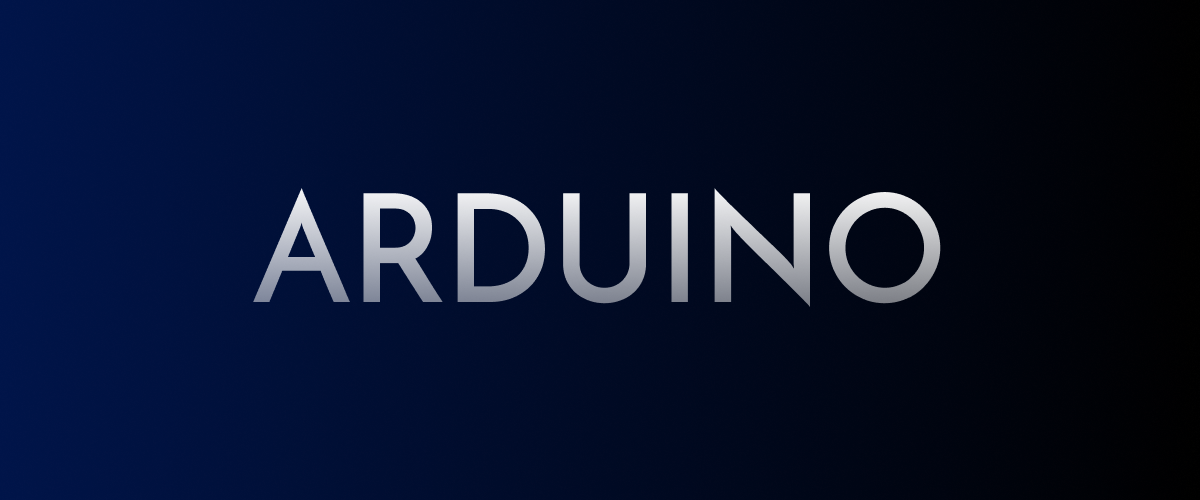
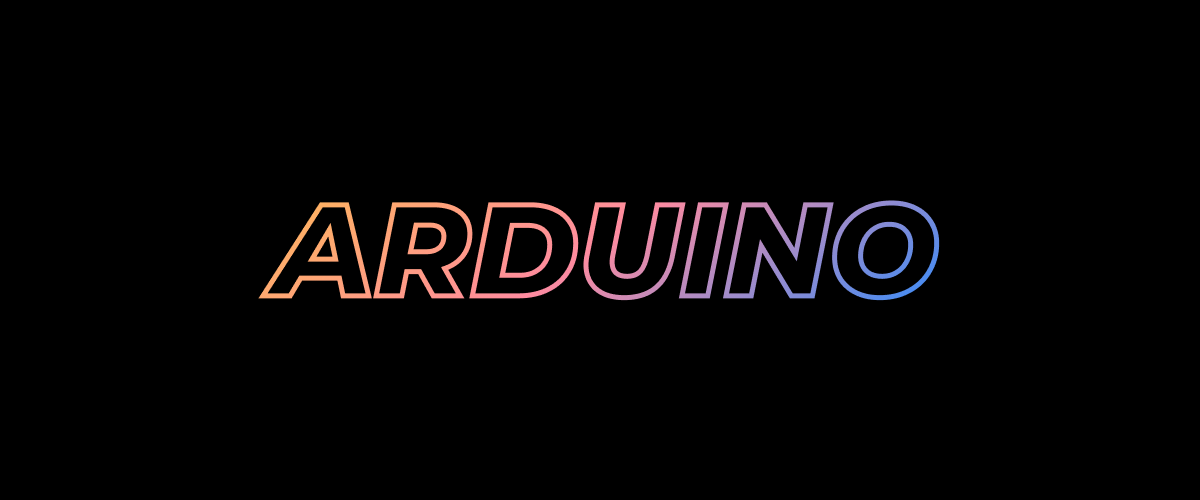
New UI

diff --git a/style.css b/style.css
@@ -1,0 +1,1 @@
+/*! tailwindcss v2.2.17 | MIT License | https://tailwindcss.com*//*! modern-normalize v1.1.0 | MIT License | https://github.com/sindresorhus/modern-normalize */html{-webkit-text-size-adjust:100%;line-height:1.15;-moz-tab-size:4;-o-tab-size:4;tab-size:4}body{font-family:system-ui,-apple-system,Segoe UI,Roboto,Helvetica,Arial,sans-serif,Apple Color Emoji,Segoe UI Emoji;margin:0}hr{color:inherit;height:0}abbr[title]{-webkit-text-decoration:underline dotted;text-decoration:underline dotted}b,strong{font-weight:bolder}code,kbd,pre,samp{font-family:ui-monospace,SFMono-Regular,Consolas,Liberation Mono,Menlo,monospace;font-size:1em}small{font-size:80%}sub,sup{font-size:75%;line-height:0;position:relative;vertical-align:baseline}sub{bottom:-.25em}sup{top:-.5em}table{border-color:inherit;text-indent:0}button,input,optgroup,select,textarea{font-family:inherit;font-size:100%;line-height:1.15;margin:0}button,select{text-transform:none}[type=button],[type=reset],[type=submit],button{-webkit-appearance:button}::-moz-focus-inner{border-style:none;padding:0}:-moz-focusring{outline:1px dotted ButtonText}:-moz-ui-invalid{box-shadow:none}legend{padding:0}progress{vertical-align:baseline}::-webkit-inner-spin-button,::-webkit-outer-spin-button{height:auto}[type=search]{-webkit-appearance:textfield;outline-offset:-2px}::-webkit-search-decoration{-webkit-appearance:none}::-webkit-file-upload-button{-webkit-appearance:button;font:inherit}summary{display:list-item}blockquote,dd,dl,figure,h1,h2,h3,h4,h5,h6,hr,p,pre{margin:0}button{background-color:transparent;background-image:none}fieldset,ol,ul{margin:0;padding:0}ol,ul{list-style:none}html{font-family:ui-sans-serif,system-ui,-apple-system,BlinkMacSystemFont,Segoe UI,Roboto,Helvetica Neue,Arial,Noto Sans,sans-serif,Apple Color Emoji,Segoe UI Emoji,Segoe UI Symbol,Noto Color Emoji;line-height:1.5}body{font-family:inherit;line-height:inherit}*,:after,:before{border:0 solid;box-sizing:border-box}hr{border-top-width:1px}img{border-style:solid}textarea{resize:vertical}input::-moz-placeholder,textarea::-moz-placeholder{color:#9ca3af;opacity:1}input:-ms-input-placeholder,textarea:-ms-input-placeholder{color:#9ca3af;opacity:1}input::placeholder,textarea::placeholder{color:#9ca3af;opacity:1}[role=button],button{cursor:pointer}:-moz-focusring{outline:auto}table{border-collapse:collapse}h1,h2,h3,h4,h5,h6{font-size:inherit;font-weight:inherit}a{color:inherit;text-decoration:inherit}button,input,optgroup,select,textarea{color:inherit;line-height:inherit;padding:0}code,kbd,pre,samp{font-family:ui-monospace,SFMono-Regular,Menlo,Monaco,Consolas,Liberation Mono,Courier New,monospace}audio,canvas,embed,iframe,img,object,svg,video{display:block;vertical-align:middle}img,video{height:auto;max-width:100%}[hidden]{display:none}*,:after,:before{--tw-translate-x:0;--tw-translate-y:0;--tw-rotate:0;--tw-skew-x:0;--tw-skew-y:0;--tw-scale-x:1;--tw-scale-y:1;--tw-transform:translateX(var(--tw-translate-x)) translateY(var(--tw-translate-y)) rotate(var(--tw-rotate)) skewX(var(--tw-skew-x)) skewY(var(--tw-skew-y)) scaleX(var(--tw-scale-x)) scaleY(var(--tw-scale-y));--tw-border-opacity:1;--tw-ring-inset:var(--tw-empty,/*!*/ /*!*/);--tw-ring-offset-width:0px;--tw-ring-offset-color:#fff;--tw-ring-color:rgba(59,130,246,0.5);--tw-ring-offset-shadow:0 0 #0000;--tw-ring-shadow:0 0 #0000;--tw-shadow:0 0 #0000;border-color:rgba(229,231,235,var(--tw-border-opacity))}.container{width:100%}@media (min-width:640px){.container{max-width:640px}}@media (min-width:768px){.container{max-width:768px}}@media (min-width:1024px){.container{max-width:1024px}}@media (min-width:1280px){.container{max-width:1280px}}@media (min-width:1536px){.container{max-width:1536px}}.order-first{order:-9999}.-m-4{margin:-1rem}.mx-auto{margin-left:auto;margin-right:auto}.-mx-4{margin-left:-1rem;margin-right:-1rem}.mr-5{margin-right:1.25rem}.mb-4{margin-bottom:1rem}.ml-3{margin-left:.75rem}.ml-5{margin-left:1.25rem}.mt-4{margin-top:1rem}.ml-1{margin-left:.25rem}.mb-10{margin-bottom:2.5rem}.mb-8{margin-bottom:2rem}.ml-4{margin-left:1rem}.mb-20{margin-bottom:5rem}.mb-6{margin-bottom:1.5rem}.mb-7{margin-bottom:1.75rem}.-mb-10{margin-bottom:-2.5rem}.mt-6{margin-top:1.5rem}.mb-3{margin-bottom:.75rem}.flex{display:flex}.inline-flex{display:inline-flex}.h-4{height:1rem}.h-1{height:.25rem}.h-40{height:10rem}.h-10{height:2.5rem}.h-5{height:1.25rem}.h-64{height:16rem}.h-full{height:100%}.w-4{width:1rem}.w-5\/6{width:83.333333%}.w-full{width:100%}.w-20{width:5rem}.w-10{width:2.5rem}.w-5{width:1.25rem}.transform{transform:var(--tw-transform)}.select-none{-webkit-user-select:none;-moz-user-select:none;-ms-user-select:none;user-select:none}.flex-col{flex-direction:column}.flex-wrap{flex-wrap:wrap}.items-center{align-items:center}.justify-center{justify-content:center}.overflow-hidden{overflow:hidden}.rounded-md{border-radius:.375rem}.rounded-3xl{border-radius:1.5rem}.rounded-lg{border-radius:.5rem}.rounded{border-radius:.25rem}.rounded-2xl{border-radius:1rem}.rounded-xl{border-radius:.75rem}.rounded-b-3xl{border-bottom-left-radius:1.5rem;border-bottom-right-radius:1.5rem}.rounded-t-3xl{border-top-left-radius:1.5rem;border-top-right-radius:1.5rem}.border-0{border-width:0}.bg-black{--tw-bg-opacity:1;background-color:rgba(0,0,0,var(--tw-bg-opacity))}.bg-white{--tw-bg-opacity:1;background-color:rgba(255,255,255,var(--tw-bg-opacity))}.bg-red-500{--tw-bg-opacity:1;background-color:rgba(239,68,68,var(--tw-bg-opacity))}.bg-opacity-40{--tw-bg-opacity:0.4}.object-cover{-o-object-fit:cover;object-fit:cover}.object-center{-o-object-position:center;object-position:center}.p-5{padding:1.25rem}.p-4{padding:1rem}.p-6{padding:1.5rem}.p-2{padding:.5rem}.py-1{padding-bottom:.25rem;padding-top:.25rem}.px-3{padding-left:.75rem;padding-right:.75rem}.px-5{padding-left:1.25rem;padding-right:1.25rem}.py-24{padding-bottom:6rem;padding-top:6rem}.py-2{padding-bottom:.5rem;padding-top:.5rem}.px-6{padding-left:1.5rem;padding-right:1.5rem}.py-8{padding-bottom:2rem;padding-top:2rem}.px-4{padding-left:1rem;padding-right:1rem}.text-center{text-align:center}.font-mono{font-family:ui-monospace,SFMono-Regular,Menlo,Monaco,Consolas,Liberation Mono,Courier New,monospace}.text-base{font-size:1rem;line-height:1.5rem}.text-3xl{font-size:1.875rem;line-height:2.25rem}.text-lg{font-size:1.125rem;line-height:1.75rem}.text-2xl{font-size:1.5rem;line-height:2rem}.text-xs{font-size:.75rem;line-height:1rem}.text-xl{font-size:1.25rem;line-height:1.75rem}.text-sm{font-size:.875rem;line-height:1.25rem}.font-medium{font-weight:500}.italic{font-style:italic}.leading-relaxed{line-height:1.625}.tracking-widest{letter-spacing:.1em}.text-gray-300{--tw-text-opacity:1;color:rgba(209,213,219,var(--tw-text-opacity))}.text-white{--tw-text-opacity:1;color:rgba(255,255,255,var(--tw-text-opacity))}.text-black{--tw-text-opacity:1;color:rgba(0,0,0,var(--tw-text-opacity))}.text-indigo-400{--tw-text-opacity:1;color:rgba(129,140,248,var(--tw-text-opacity))}.text-gray-400{--tw-text-opacity:1;color:rgba(156,163,175,var(--tw-text-opacity))}.text-gray-500{--tw-text-opacity:1;color:rgba(107,114,128,var(--tw-text-opacity))}.text-opacity-90{--tw-text-opacity:0.9}.ring-4{--tw-ring-offset-shadow:var(--tw-ring-inset) 0 0 0 var(--tw-ring-offset-width) var(--tw-ring-offset-color);--tw-ring-shadow:var(--tw-ring-inset) 0 0 0 calc(4px + var(--tw-ring-offset-width)) var(--tw-ring-color)}.ring,.ring-4{box-shadow:var(--tw-ring-offset-shadow),var(--tw-ring-shadow),var(--tw-shadow,0 0 #0000)}.ring{--tw-ring-offset-shadow:var(--tw-ring-inset) 0 0 0 var(--tw-ring-offset-width) var(--tw-ring-offset-color);--tw-ring-shadow:var(--tw-ring-inset) 0 0 0 calc(3px + var(--tw-ring-offset-width)) var(--tw-ring-color)}.ring-white{--tw-ring-opacity:1;--tw-ring-color:rgba(255,255,255,var(--tw-ring-opacity))}.ring-red-500{--tw-ring-opacity:1;--tw-ring-color:rgba(239,68,68,var(--tw-ring-opacity))}.ring-indigo-900{--tw-ring-opacity:1;--tw-ring-color:rgba(49,46,129,var(--tw-ring-opacity))}.ring-red-600{--tw-ring-opacity:1;--tw-ring-color:rgba(220,38,38,var(--tw-ring-opacity))}.ring-green-500{--tw-ring-opacity:1;--tw-ring-color:rgba(16,185,129,var(--tw-ring-opacity))}.ring-blue-700{--tw-ring-opacity:1;--tw-ring-color:rgba(29,78,216,var(--tw-ring-opacity))}.ring-opacity-10{--tw-ring-opacity:0.1}.transition{transition-duration:.15s;transition-property:background-color,border-color,color,fill,stroke,opacity,box-shadow,transform,filter,-webkit-backdrop-filter;transition-property:background-color,border-color,color,fill,stroke,opacity,box-shadow,transform,filter,backdrop-filter;transition-property:background-color,border-color,color,fill,stroke,opacity,box-shadow,transform,filter,backdrop-filter,-webkit-backdrop-filter;transition-timing-function:cubic-bezier(.4,0,.2,1)}.duration-500{transition-duration:.5s}.ease-in-out{transition-timing-function:cubic-bezier(.4,0,.2,1)}.hover\:scale-110:hover{--tw-scale-x:1.1;--tw-scale-y:1.1;transform:var(--tw-transform)}.hover\:text-white:hover{--tw-text-opacity:1;color:rgba(255,255,255,var(--tw-text-opacity))}.focus\:outline-none:focus{outline:2px solid transparent;outline-offset:2px}@media (min-width:640px){.sm\:ml-4{margin-left:1rem}.sm\:mt-0{margin-top:0}.sm\:ml-auto{margin-left:auto}.sm\:w-1\/2{width:50%}.sm\:flex-row{flex-direction:row}.sm\:justify-start{justify-content:flex-start}.sm\:border-l-2{border-left-width:2px}.sm\:border-gray-800{--tw-border-opacity:1;border-color:rgba(31,41,55,var(--tw-border-opacity))}.sm\:py-2{padding-bottom:.5rem;padding-top:.5rem}.sm\:pl-4{padding-left:1rem}.sm\:text-4xl{font-size:2.25rem;line-height:2.5rem}.sm\:text-3xl{font-size:1.875rem;line-height:2.25rem}}@media (min-width:768px){.md\:ml-auto{margin-left:auto}.md\:mb-0{margin-bottom:0}.md\:mt-0{margin-top:0}.md\:w-1\/2,.md\:w-3\/6{width:50%}.md\:flex-row{flex-direction:row}.md\:justify-start{justify-content:flex-start}}@media (min-width:1024px){.lg\:order-none{order:0}.lg\:ml-0{margin-left:0}.lg\:mb-0{margin-bottom:0}.lg\:hidden{display:none}.lg\:w-2\/5{width:40%}.lg\:w-1\/5{width:20%}.lg\:w-2\/6{width:33.333333%}.lg\:w-2\/3{width:66.666667%}.lg\:w-1\/2{width:50%}.lg\:items-center{align-items:center}.lg\:justify-end{justify-content:flex-end}.lg\:justify-center{justify-content:center}}@media (min-width:1280px){.xl\:block{display:block}.xl\:w-1\/4{width:25%}}

diff --git a/Downloads/index.html b/Downloads/index.html
@@ -5,8 +5,8 @@
     <meta charset="UTF-8">
     <meta http-equiv="X-UA-Compatible" content="IE=edge">
     <meta name="viewport" content="width=device-width, initial-scale=1.0">
-    <title>XelXen</title>
-    <link rel="stylesheet" href="style.css">
+    <title>Downloads</title>
+    <link rel="stylesheet" href="/style.css">
     <style>
         body {
             background-image: url('/media/bg.jpg');
@@ -60,7 +60,7 @@
                     class="mr-5 select-none hover:text-white">About me</a>
                 <a href="https://github.com/XelXen" class="select-none hover:text-white">GitHub</a>
             </nav>
-            <a
+            <a href='/'
                 class="flex order-first lg:order-none select-none lg:w-1/5 title-font font-medium items-center text-white lg:items-center lg:justify-center mb-4 md:mb-0">
                 <span class="ml-3 text-3xl xl:block lg:hidden">XelXen</span>
             </a>
@@ -76,92 +76,44 @@
         </div>
     </header>
 
-    <section class="text-gray-300 body-font">
-        <div class="container mx-auto flex px-5 py-24 items-center justify-center flex-col">
-            <img class="lg:w-2/6 md:w-3/6 w-5/6 mb-10 object-cover object-center rounded-3xl" alt="hero"
-                src="/media/hero.png">
-            <div class="text-center lg:w-2/3 w-full">
-                <h1 class="title-font sm:text-4xl text-3xl mb-4 font-medium select-none text-white">127.0.0.1</h1>
-                <p class="leading-relaxed select-none mb-8">I am a 13 year old kid who likes Linux, Android development
-                    and many
-                    coding languages</p>
-                <div class="flex justify-center">
-                    <button><a href="/Downloads"
-                            class="inline-flex bg-white ring ring-white text-black select-none py-2 px-6 focus:outline-none transition duration-500 ease-in-out transform hover:scale-110 rounded-lg text-lg">Downloads</a></button>
-                    <button><a href="/Blogs"
-                            class="ml-4 ring ring-white inline-flex text-white select-none transition duration-500 ease-in-out transform hover:scale-110 border-0 py-2 px-6 rounded-lg text-lg">Blogs</a></button>
+    <section class="text-gray-400 body-font">
+        <div class="container px-5 py-24 mx-auto">
+            <div class="flex flex-wrap -mx-4 -mb-10 text-center">
+                <div class="sm:w-1/2 mb-10 px-4">
+                    <div class="rounded-2xl ring ring-white h-64 overflow-hidden">
+                        <img alt="content" class="object-cover object-center h-full w-full" src="/media/ARDUINO.png">
+                    </div>
+                    <h2 class="title-font italic text-2xl font-medium text-white mt-6 mb-3">ARDUINO PROJECTS</h2>
+                    <button><a href="https://github.com/XelXen/Downloads/tree/main/ARDUINO"
+                            class="flex ring ring-white mx-auto mt-6 transition duration-500 font-mono ease-in-out transform hover:scale-110 text-white py-2 px-5 rounded-lg">Download</a></button>
+                </div>
+                <div class="sm:w-1/2 mb-10 px-4">
+                    <div class="rounded-2xl ring ring-white h-64 overflow-hidden">
+                        <img alt="content" class="object-cover object-center h-full w-full" src="/media/MALWARE.png">
+                    </div>
+                    <h2 class="title-font italic text-2xl font-medium text-white mt-6 mb-3">MALWARE AND VIRUSES</h2>
+                    <button><a href="https://github.com/XelXen/Downloads/tree/main/MALWARE"
+                            class="flex ring ring-white mx-auto mt-6 transition duration-500 font-mono ease-in-out transform hover:scale-110 text-white py-2 px-5 rounded-lg">Download</a></button>
                 </div>
             </div>
         </div>
-    </section>
-
-    <section class="text-gray-300 rounded-t-3xl bg-opacity-40 ring-4 ring-white ring-opacity-10 bg-black body-font">
         <div class="container px-5 py-24 mx-auto">
-            <div class="flex flex-wrap w-full mb-20">
-                <div class="lg:w-1/2 w-full mb-6 lg:mb-0">
-                    <h1 class="sm:text-3xl text-2xl font-medium title-font select-none mb-7 text-white">My Videos</h1>
-                    <div class="h-1 w-20 bg-red-500 rounded"></div>
-                </div>
-                <p class="lg:w-1/2 w-full leading-relaxed select-none text-gray-300 text-opacity-90">These are some of
-                    the videos
-                    that I love. They are the ones took the most time while making but at last I finally got a good
-                    video to present</p>
-            </div>
-            <div class="flex flex-wrap -m-4">
-                <div class="xl:w-1/4 md:w-1/2 p-4">
-                    <div class="ring ring-indigo-900 p-6 rounded-2xl">
-                        <a href="https://www.youtube.com/watch?v=RBX7xlm20OY&list=PLz1YQdOEqf092Hhmbh6Z70kmbT1-hI2SB"><img
-                                class="h-40 rounded-xl ring ring-white w-full object-cover object-center mb-6" src="/media/1.jpg"
-                                alt="content"></a>
-                        <h3 class="tracking-widest text-indigo-400 text-xs select-none font-medium title-font">HACKING
-                        </h3>
-                        <h2 class="text-lg text-white font-medium select-none title-font mb-4">HACX</h2>
-                        <p class="leading-relaxed select-none text-base">The whole series was made such as guys who like
-                            automating
-                            hacks and do stuff like hacking will love the series.</p>
+            <div class="flex flex-wrap -mx-4 -mb-10 text-center">
+                <div class="sm:w-1/2 mb-10 px-4">
+                    <div class="rounded-2xl ring ring-white h-64 overflow-hidden">
+                        <img alt="content" class="object-cover object-center h-full w-full" src="/media/CRACK.png">
                     </div>
+                    <h2 class="title-font italic text-2xl font-medium text-white mt-6 mb-3">SOFTWARE CRACKS</h2>
+                    <button><a href="https://mega.nz/folder/vFlGyKaS#6hQD4nPIYMW_jJFAmrzYtQ"
+                            class="flex ring ring-white mx-auto mt-6 transition duration-500 font-mono ease-in-out transform hover:scale-110 text-white py-2 px-5 rounded-lg">Download</a></button>
                 </div>
-                <div class="xl:w-1/4 md:w-1/2 p-4">
-                    <div class="ring ring-indigo-900 p-6 rounded-2xl">
-                        <a href="https://www.youtube.com/watch?v=rw-ki2fOboo"><img
-                                class="h-40 rounded-xl ring ring-red-600 w-full object-cover object-center mb-6" src="/media/2.jpg"
-                                alt="content"></a>
-                        <h3 class="tracking-widest text-indigo-400 select-none text-xs font-medium title-font">WINDOWS
-                            MODDING</h3>
-                        <h2 class="text-lg text-white select-none font-medium title-font mb-4">Remove Cortana</h2>
-                        <p class="leading-relaxed select-none text-base">A video which is made for users who hate
-                            bloatware like
-                            Cortana and wants to remove it.</p>
+                <div class="sm:w-1/2 mb-10 px-4">
+                    <div class="rounded-2xl ring ring-white h-64 overflow-hidden">
+                        <img alt="content" class="object-cover object-center h-full w-full" src="/media/MORE.png">
                     </div>
-                </div>
-                <div class="xl:w-1/4 md:w-1/2 p-4">
-                    <div class="ring ring-indigo-900 p-6 rounded-2xl">
-                        <a href="https://www.youtube.com/watch?v=WWnl_9JaoPU"><img
-                                class="h-40 rounded-xl ring ring-green-500 w-full object-cover object-center mb-6" src="/media/3.jpg"
-                                alt="content"></a>
-                        <h3 class="tracking-widest select-none text-indigo-400 text-xs font-medium title-font">OPERATING
-                            SYSTEMS
-                        </h3>
-                        <h2 class="text-lg text-white select-none font-medium title-font mb-4">Making Bootable media
-                        </h2>
-                        <p class="leading-relaxed select-none text-base">A video made for users who usually wants to
-                            switch between
-                            operating systems usually.</p>
-                    </div>
-                </div>
-                <div class="xl:w-1/4 md:w-1/2 p-4">
-                    <div class="ring ring-indigo-900 p-6 rounded-2xl">
-                        <a href="https://www.youtube.com/watch?v=biOSZ95Vfds"><img
-                                class="h-40 rounded-xl ring ring-blue-700 w-full object-cover object-center mb-6" src="/media/4.jpg"
-                                alt="content"></a>
-                        <h3 class="tracking-widest text-indigo-400 text-xs font-medium select-none title-font">
-                            VIRTUALISATION</h3>
-                        <h2 class="text-lg text-white font-medium select-none title-font mb-4">Making Virtual Machines
-                        </h2>
-                        <p class="leading-relaxed select-none text-base">A video made for those people who loves to do
-                            stuff like
-                            developement and experiments using VMs</p>
-                    </div>
+                    <h2 class="title-font italic text-2xl font-medium text-white mt-6 mb-3">MISCELLANEOUS</h2>
+                    <button><a href="https://github.com/XelXen/Downloads/tree/main/MISCELLANEOUS"
+                            class="flex ring ring-white mx-auto mt-6 transition duration-500 font-mono ease-in-out transform hover:scale-110 text-white py-2 px-5 rounded-lg">Download</a></button>
                 </div>
             </div>
         </div>
